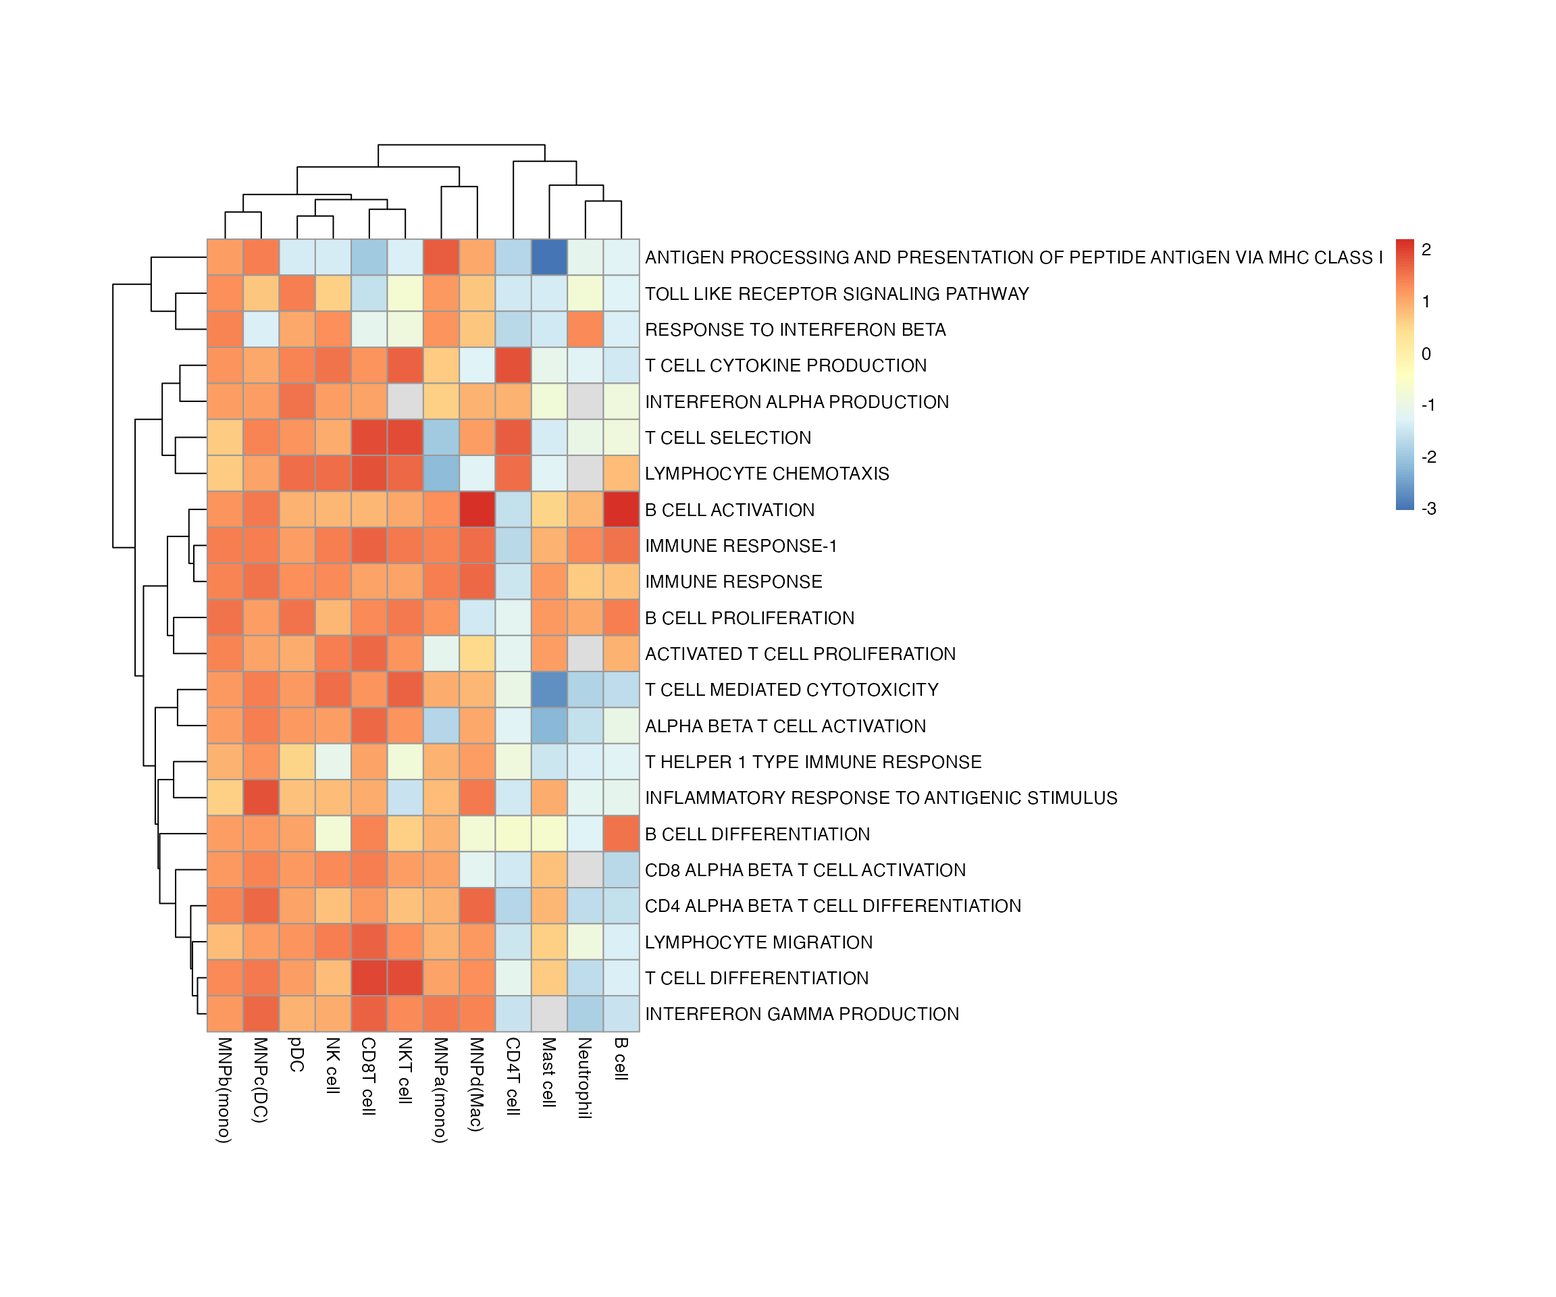
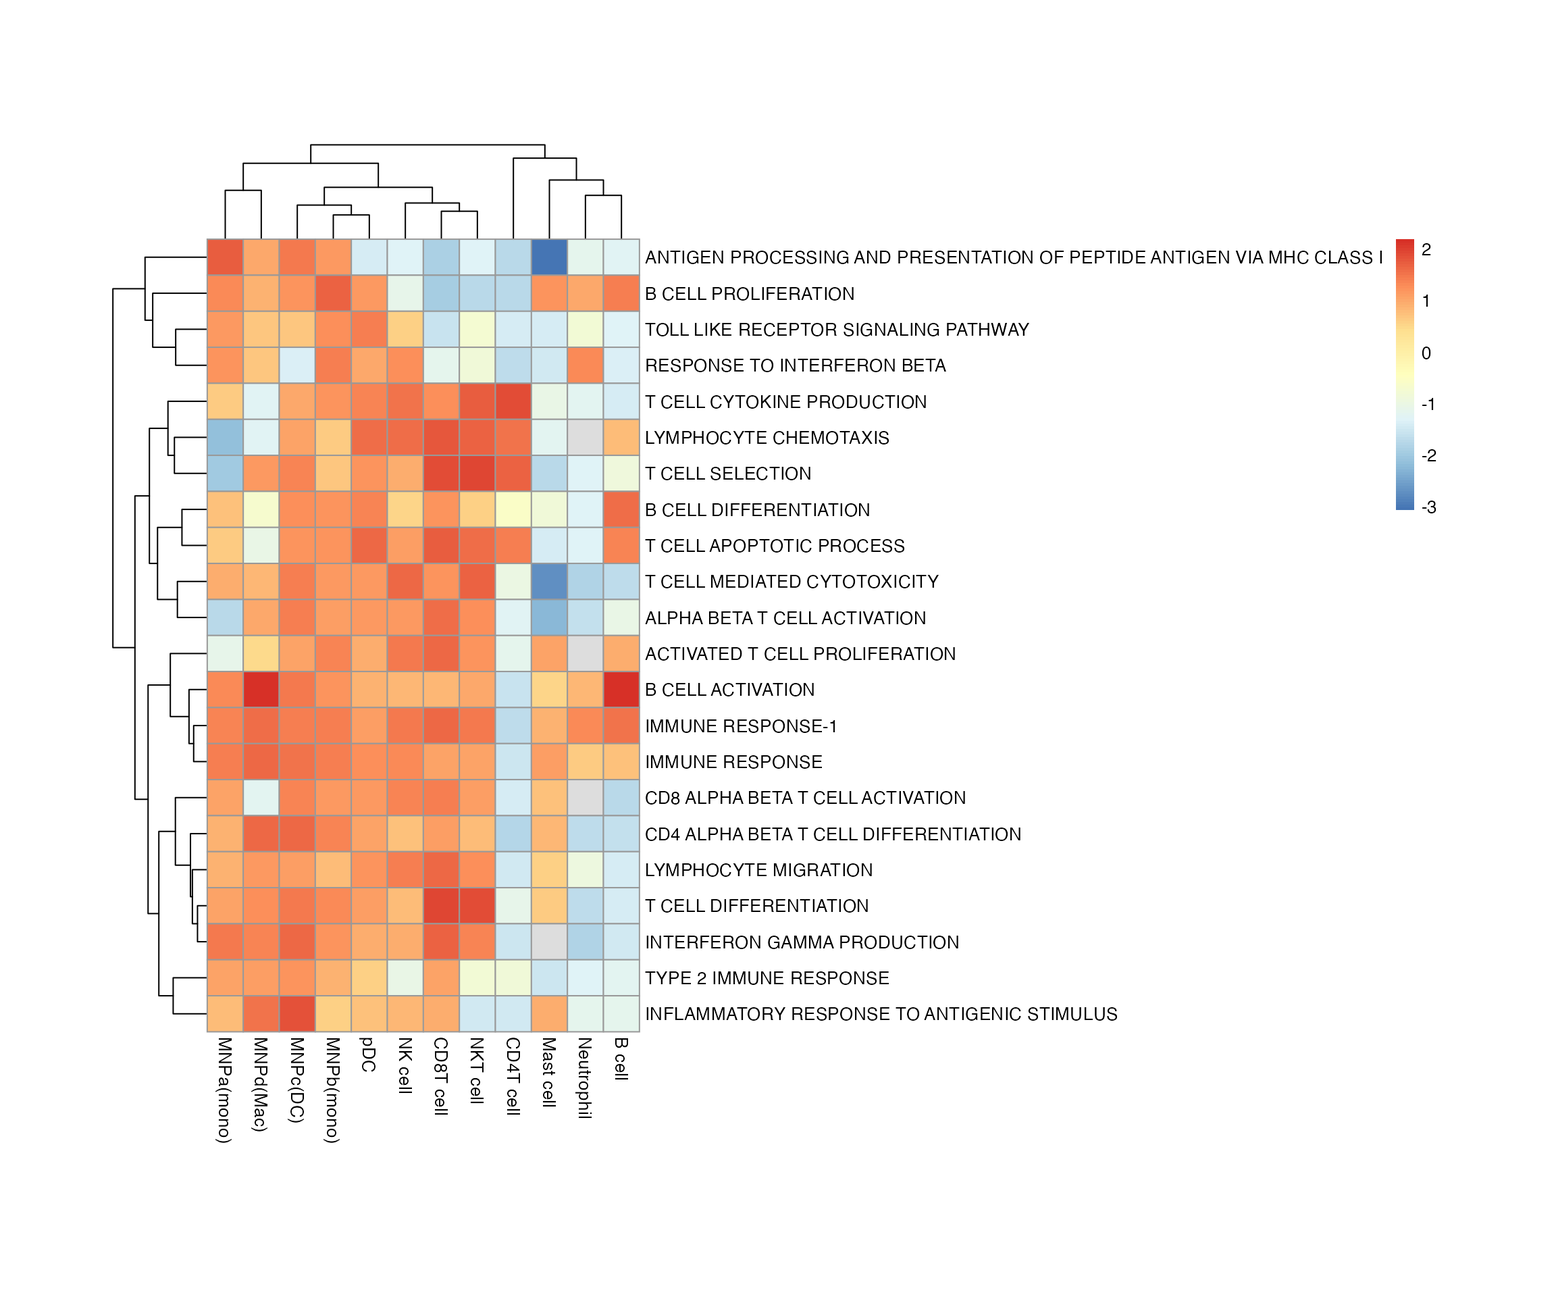
Built site for bowerbird: 0.0.2@e102f7c

diff --git a/articles/bowerbird_vignette.html b/articles/bowerbird_vignette.html
@@ -153,7 +153,7 @@
 <span class="co"># manualy read in to do some fine adjustments/filtering</span>
 <span class="va">geneset</span> <span class="op">&lt;-</span> <span class="fu"><a href="../reference/read_geneset.html">read_geneset</a></span><span class="op">(</span><span class="va">file</span><span class="op">)</span> <span class="co"># reads in gene file manually</span>
 <span class="co"># do a bit of manual filtering</span>
-<span class="va">geneset</span> <span class="op">&lt;-</span> <span class="va">geneset</span><span class="op">[</span><span class="fu"><a href="https://rdrr.io/r/base/grep.html">grep</a></span><span class="op">(</span><span class="st">'_B_CELL|_T_CELL|NATURAL_KILLER|ANTIBODY|ANTIGEN|LYMPHOCYTE|IMMUNE|INTERFERON|TOLL|INNATE|ADAPTIVE'</span>, <span class="fu"><a href="https://rdrr.io/r/base/names.html">names</a></span><span class="op">(</span><span class="va">geneset</span><span class="op">)</span><span class="op">)</span><span class="op">]</span>
+<span class="va">geneset</span> <span class="op">&lt;-</span> <span class="va">geneset</span><span class="op">[</span><span class="fu"><a href="https://rdrr.io/r/base/grep.html">grep</a></span><span class="op">(</span><span class="st">'_B_CELL|_T_CELL|NATURAL_KILLER|ANTIBODY|ANTIGEN|LYMPHOCYTE|IMMUNE|INTERFERON|TOLL|INNATE_IMM|ADAPTIVE_IMM'</span>, <span class="fu"><a href="https://rdrr.io/r/base/names.html">names</a></span><span class="op">(</span><span class="va">geneset</span><span class="op">)</span><span class="op">)</span><span class="op">]</span>
 
 <span class="va">bwr</span> <span class="op">&lt;-</span> <span class="fu"><a href="../reference/bower.html">bower</a></span><span class="op">(</span><span class="va">geneset</span><span class="op">)</span>
 <span class="va">bwr</span> <span class="op">&lt;-</span> <span class="fu"><a href="../reference/snn_graph.html">snn_graph</a></span><span class="op">(</span><span class="va">bwr</span><span class="op">)</span>
@@ -163,7 +163,7 @@
 <div class="sourceCode" id="cb7"><pre class="downlit sourceCode r">
 <code class="sourceCode R"><span class="kw"><a href="https://rdrr.io/r/base/library.html">library</a></span><span class="op">(</span><span class="va"><a href="https://igordot.github.io/msigdbr/">msigdbr</a></span><span class="op">)</span>
 <span class="va">GO</span> <span class="op">&lt;-</span> <span class="fu"><a href="https://rdrr.io/r/base/data.frame.html">data.frame</a></span><span class="op">(</span><span class="fu">msigdbr</span><span class="fu">::</span><span class="fu"><a href="https://igordot.github.io/msigdbr/reference/msigdbr.html">msigdbr</a></span><span class="op">(</span>category <span class="op">=</span> <span class="st">"C5"</span>, subcategory <span class="op">=</span> <span class="st">"GO:BP"</span><span class="op">)</span><span class="op">)</span>
-<span class="va">genesets</span> <span class="op">&lt;-</span> <span class="va">GO</span><span class="op">[</span><span class="fu"><a href="https://rdrr.io/r/base/grep.html">grep</a></span><span class="op">(</span><span class="st">'_B_CELL|_T_CELL|NATURAL_KILLER|ANTIBODY|ANTIGEN|LYMPHOCYTE|IMMUNE|INTERFERON|TOLL|INNATE|ADAPTIVE'</span>, <span class="va">GO</span><span class="op">$</span><span class="va">gs_name</span><span class="op">)</span>, <span class="op">]</span>
+<span class="va">genesets</span> <span class="op">&lt;-</span> <span class="va">GO</span><span class="op">[</span><span class="fu"><a href="https://rdrr.io/r/base/grep.html">grep</a></span><span class="op">(</span><span class="st">'_B_CELL|_T_CELL|NATURAL_KILLER|ANTIBODY|ANTIGEN|LYMPHOCYTE|IMMUNE|INTERFERON|TOLL|INNATE_IMM|ADAPTIVE_IMM'</span>, <span class="va">GO</span><span class="op">$</span><span class="va">gs_name</span><span class="op">)</span>, <span class="op">]</span>
 
 <span class="co"># convert to list</span>
 <span class="va">gs_list</span> <span class="op">&lt;-</span> <span class="fu"><a href="https://rdrr.io/r/base/lapply.html">lapply</a></span><span class="op">(</span><span class="fu"><a href="https://rdrr.io/r/base/unique.html">unique</a></span><span class="op">(</span><span class="va">genesets</span><span class="op">$</span><span class="va">gs_name</span><span class="op">)</span>, <span class="kw">function</span><span class="op">(</span><span class="va">x</span><span class="op">)</span> <span class="va">genesets</span><span class="op">[</span><span class="va">genesets</span><span class="op">$</span><span class="va">gs_name</span> <span class="op">%in%</span> <span class="va">x</span>, <span class="st">"gene_symbol"</span><span class="op">]</span><span class="op">)</span>
@@ -177,12 +177,12 @@
 <div class="sourceCode" id="cb8"><pre class="downlit sourceCode r">
 <code class="sourceCode R"><span class="va">bwr</span>
 <span class="co">#&gt; BOWER class</span>
-<span class="co">#&gt; number of genesets:  255 </span>
+<span class="co">#&gt; number of genesets:  254 </span>
 <span class="co">#&gt; genesets kNN Graph: </span>
-<span class="co">#&gt; IGRAPH e4ee978 UNW- 255 802 -- </span>
+<span class="co">#&gt; IGRAPH b01184d UNW- 254 799 -- </span>
 <span class="co">#&gt; + attr: name (v/c), cluster (v/n), geneset_size (v/n), terms (v/c),</span>
 <span class="co">#&gt; | labels (v/c), weight (e/n)</span>
-<span class="co">#&gt; + edges from e4ee978 (vertex names):</span>
+<span class="co">#&gt; + edges from b01184d (vertex names):</span>
 <span class="co">#&gt; [1] GOBP_ACTIVATED_T_CELL_PROLIFERATION--GOBP_CD8_POSITIVE_ALPHA_BETA_T_CELL_DIFFERENTIATION          </span>
 <span class="co">#&gt; [2] GOBP_ACTIVATED_T_CELL_PROLIFERATION--GOBP_NEGATIVE_REGULATION_OF_ACTIVATED_T_CELL_PROLIFERATION   </span>
 <span class="co">#&gt; [3] GOBP_ACTIVATED_T_CELL_PROLIFERATION--GOBP_NEGATIVE_REGULATION_OF_LYMPHOCYTE_DIFFERENTIATION       </span>
@@ -196,24 +196,24 @@
 <span class="co">#&gt;   CD4 ALPHA BETA T CELL DIFFERENTIATION : ANXA1 ATP7A BATF BCL3 BCL6 CBFB ...</span>
 <span class="co">#&gt;   IMMUNE RESPONSE : CLNK HLA-E HLA-F IFNA2 IFNB1 IL18 ...</span>
 <span class="co">#&gt;   T CELL MEDIATED CYTOTOXICITY : HLA-A HLA-B HLA-C HLA-E HLA-F HLA-G ...</span>
+<span class="co">#&gt;   TYPE 2 IMMUNE RESPONSE : CAMP DEFA1 DEFA1B DEFA3 DEFA4 DEFA5 ...</span>
 <span class="co">#&gt;   CD8 ALPHA BETA T CELL ACTIVATION : HLA-E GATA3 ADCYAP1 BTK C3 CCR7 ...</span>
-<span class="co">#&gt;   B CELL PROLIFERATION : ADA BAX BCL6 BLK BTK CD74 ...</span>
 <span class="co">#&gt;   T CELL DIFFERENTIATION : FCGR2B FGL2 HLA-DOA LILRB2 THBS1 BMP4 ...</span>
 <span class="co">#&gt;   INTERFERON GAMMA PRODUCTION : ABCB9 ACE ACTR10 ACTR1A ACTR1B AP1B1 ...</span>
 <span class="co">#&gt;   TOLL LIKE RECEPTOR SIGNALING PATHWAY : CACTIN PTPRS TICAM1 TLR3 TLR4 TLR9 ...</span>
-<span class="co">#&gt;   T HELPER 1 TYPE IMMUNE RESPONSE : BCL6 FOXP3 IL2 IL4 TBX21 TNFSF4 ...</span>
 <span class="co">#&gt;   T CELL CYTOKINE PRODUCTION : KLRC1 LILRB1 NOD2 PTPRC EGR3 LEF1 ...</span>
-<span class="co">#&gt;   INTERFERON ALPHA PRODUCTION : IL18 IL18R1 IL4 TLR4 SYK IL4R ...</span>
+<span class="co">#&gt;   B CELL DIFFERENTIATION : IL10 TLR9 SYK ADA BCL3 C17orf99 ...</span>
 <span class="co">#&gt;   RESPONSE TO INTERFERON BETA : ADA SOS1 SOS2 IRF1 TLR3 IRGM ...</span>
-<span class="co">#&gt;   ACTIVATED T CELL PROLIFERATION : LILRB4 CD24 CD274 FYN HHLA2 ICOSLG ...</span>
-<span class="co">#&gt;   T CELL SELECTION : TOX BCL2 BATF CTSL FOXP3 IL12B ...</span>
-<span class="co">#&gt;   LYMPHOCYTE CHEMOTAXIS : CCL2 CCL3 CCL4 CCL5 CCL7 CXCL14 ...</span>
+<span class="co">#&gt;   B CELL PROLIFERATION : ADA BAX BCL6 BLK BTK CD74 ...</span>
 <span class="co">#&gt;   B CELL ACTIVATION : ADA ADAM17 BATF BCL3 BCL6 BTK ...</span>
+<span class="co">#&gt;   ACTIVATED T CELL PROLIFERATION : LILRB4 CD24 CD274 FYN HHLA2 ICOSLG ...</span>
+<span class="co">#&gt;   LYMPHOCYTE CHEMOTAXIS : CCL2 CCL3 CCL4 CCL5 CCL7 CXCL14 ...</span>
+<span class="co">#&gt;   T CELL SELECTION : TOX BCL2 BATF CTSL FOXP3 IL12B ...</span>
 <span class="co">#&gt;   INFLAMMATORY RESPONSE TO ANTIGENIC STIMULUS : BTK C3 CD28 HLA-E LTA NOD2 ...</span>
 <span class="co">#&gt;   ALPHA BETA T CELL ACTIVATION : AGER ANXA1 ARG2 ATP7A BATF BCL3 ...</span>
+<span class="co">#&gt;   T CELL APOPTOTIC PROCESS : ADA AKT1 BAK1 BAX BCL10 BCL2L11 ...</span>
 <span class="co">#&gt;   ANTIGEN PROCESSING AND PRESENTATION OF PEPTIDE ANTIGEN VIA MHC CLASS I : ABCB9 AZGP1 B2M ERAP1 ERAP2 HFE ...</span>
-<span class="co">#&gt;   LYMPHOCYTE MIGRATION : ADAM10 ADAM17 ADAM8 AIF1 APP CCL20 ...</span>
-<span class="co">#&gt;   B CELL DIFFERENTIATION : ADA BCL3 C17orf99 CD19 CDH17 CMTM7 ...</span></code></pre></div>
+<span class="co">#&gt;   LYMPHOCYTE MIGRATION : ADAM10 ADAM17 ADAM8 AIF1 APP CCL20 ...</span></code></pre></div>
 <p>We can visualise it with a simple plot</p>
 <div class="sourceCode" id="cb9"><pre class="downlit sourceCode r">
 <code class="sourceCode R"><span class="fu"><a href="../reference/plot_graph.html">plot_graph</a></span><span class="op">(</span><span class="va">bwr</span>, colorby <span class="op">=</span> <span class="st">'cluster'</span>, node.size <span class="op">=</span> <span class="st">'geneset_size'</span><span class="op">)</span></code></pre></div>

diff --git a/index.html b/index.html
@@ -136,7 +136,7 @@
 <span class="co"># manualy read in to do some fine adjustments/filtering</span>
 <span class="va">geneset</span> <span class="op">&lt;-</span> <span class="fu"><a href="reference/read_geneset.html">read_geneset</a></span><span class="op">(</span><span class="va">file</span><span class="op">)</span> <span class="co"># reads in gene file manually</span>
 <span class="co"># do a bit of manual filtering</span>
-<span class="va">geneset</span> <span class="op">&lt;-</span> <span class="va">geneset</span><span class="op">[</span><span class="fu"><a href="https://rdrr.io/r/base/grep.html">grep</a></span><span class="op">(</span><span class="st">'B_CELL|T_CELL|NATURAL_KILLER|ANTIBODY|ANTIGEN|LYMPHOCYTE|IMMUNE|INTERFERON|TOLL|INNATE|ADAPTIVE'</span>, <span class="fu"><a href="https://rdrr.io/r/base/names.html">names</a></span><span class="op">(</span><span class="va">geneset</span><span class="op">)</span><span class="op">)</span><span class="op">]</span>
+<span class="va">geneset</span> <span class="op">&lt;-</span> <span class="va">geneset</span><span class="op">[</span><span class="fu"><a href="https://rdrr.io/r/base/grep.html">grep</a></span><span class="op">(</span><span class="st">'B_CELL|T_CELL|NATURAL_KILLER|ANTIBODY|ANTIGEN|LYMPHOCYTE|IMMUNE|INTERFERON|TOLL|INNATE_IMM|ADAPTIVE_IMM'</span>, <span class="fu"><a href="https://rdrr.io/r/base/names.html">names</a></span><span class="op">(</span><span class="va">geneset</span><span class="op">)</span><span class="op">)</span><span class="op">]</span>
 
 <span class="va">bwr</span> <span class="op">&lt;-</span> <span class="fu"><a href="reference/bower.html">bower</a></span><span class="op">(</span><span class="va">geneset</span><span class="op">)</span>
 <span class="va">bwr</span> <span class="op">&lt;-</span> <span class="fu"><a href="reference/snn_graph.html">snn_graph</a></span><span class="op">(</span><span class="va">bwr</span><span class="op">)</span>
@@ -147,8 +147,7 @@
 <code class="sourceCode R"><span class="kw"><a href="https://rdrr.io/r/base/library.html">library</a></span><span class="op">(</span><span class="va">bowerbird</span><span class="op">)</span>
 <span class="kw"><a href="https://rdrr.io/r/base/library.html">library</a></span><span class="op">(</span><span class="va"><a href="https://igordot.github.io/msigdbr/">msigdbr</a></span><span class="op">)</span>
 <span class="va">GO</span> <span class="op">&lt;-</span> <span class="fu"><a href="https://rdrr.io/r/base/data.frame.html">data.frame</a></span><span class="op">(</span><span class="fu">msigdbr</span><span class="fu">::</span><span class="fu"><a href="https://igordot.github.io/msigdbr/reference/msigdbr.html">msigdbr</a></span><span class="op">(</span>category <span class="op">=</span> <span class="st">"C5"</span>, subcategory <span class="op">=</span> <span class="st">"GO:BP"</span><span class="op">)</span><span class="op">)</span>
-<span class="va">genesets</span> <span class="op">&lt;-</span> <span class="va">GO</span><span class="op">[</span><span class="fu"><a href="https://rdrr.io/r/base/grep.html">grep</a></span><span class="op">(</span><span class="st">'_B_CELL|_T_CELL|NATURAL_KILLER|ANTIBODY|ANTIGEN|LYMPHOCYTE|IMMUNE|INTERFERON|TOLL|INNATE|ADAPTIVE'</span>, <span class="va">GO</span><span class="op">$</span><span class="va">gs_name</span><span class="op">)</span>, <span class="op">]</span>
-<span class="va">genesets</span> <span class="op">&lt;-</span> <span class="va">genesets</span><span class="op">[</span><span class="op">!</span><span class="fu"><a href="https://rdrr.io/r/base/grep.html">grepl</a></span><span class="op">(</span><span class="st">'TROPHOBLAST_CELL|FAT_CELL|ENT_CELL'</span>, <span class="va">genesets</span><span class="op">$</span><span class="va">gs_name</span><span class="op">)</span>, <span class="op">]</span>
+<span class="va">genesets</span> <span class="op">&lt;-</span> <span class="va">GO</span><span class="op">[</span><span class="fu"><a href="https://rdrr.io/r/base/grep.html">grep</a></span><span class="op">(</span><span class="st">'_B_CELL|_T_CELL|NATURAL_KILLER|ANTIBODY|ANTIGEN|LYMPHOCYTE|IMMUNE|INTERFERON|TOLL|INNATE_IMM|ADAPTIVE_IMM'</span>, <span class="va">GO</span><span class="op">$</span><span class="va">gs_name</span><span class="op">)</span>, <span class="op">]</span>
 
 <span class="co"># convert to list</span>
 <span class="va">gs_list</span> <span class="op">&lt;-</span> <span class="fu"><a href="https://rdrr.io/r/base/lapply.html">lapply</a></span><span class="op">(</span><span class="fu"><a href="https://rdrr.io/r/base/unique.html">unique</a></span><span class="op">(</span><span class="va">genesets</span><span class="op">$</span><span class="va">gs_name</span><span class="op">)</span>, <span class="kw">function</span><span class="op">(</span><span class="va">x</span><span class="op">)</span> <span class="va">genesets</span><span class="op">[</span><span class="va">genesets</span><span class="op">$</span><span class="va">gs_name</span> <span class="op">%in%</span> <span class="va">x</span>, <span class="st">"gene_symbol"</span><span class="op">]</span><span class="op">)</span>

diff --git a/reference/extract_core.html b/reference/extract_core.html
@@ -154,10 +154,10 @@
 </div><div class='output co'>#&gt; BOWER class
 #&gt; number of genesets:  50 
 #&gt; genesets kNN Graph: 
-#&gt; IGRAPH f5badf5 UNW- 50 124 -- 
+#&gt; IGRAPH 5a2bac9 UNW- 50 124 -- 
 #&gt; + attr: name (v/c), cluster (v/n), geneset_size (v/n), terms (v/c),
 #&gt; | labels (v/c), weight (e/n)
-#&gt; + edges from f5badf5 (vertex names):
+#&gt; + edges from 5a2bac9 (vertex names):
 #&gt; [1] HALLMARK_TNFA_SIGNALING_VIA_NFKB--HALLMARK_HYPOXIA                
 #&gt; [2] HALLMARK_TNFA_SIGNALING_VIA_NFKB--HALLMARK_TGF_BETA_SIGNALING     
 #&gt; [3] HALLMARK_TNFA_SIGNALING_VIA_NFKB--HALLMARK_IL6_JAK_STAT3_SIGNALING
@@ -165,18 +165,19 @@
 #&gt; [5] HALLMARK_TNFA_SIGNALING_VIA_NFKB--HALLMARK_MYOGENESIS             
 #&gt; [6] HALLMARK_TNFA_SIGNALING_VIA_NFKB--HALLMARK_COMPLEMENT             
 #&gt; + ... omitted several edges
-#&gt; number of geneset clusters:  9 
+#&gt; number of geneset clusters:  10 
 #&gt; Core genes:
 #&gt; 	First six genes shown
 #&gt; 	 XENOBIOTIC METABOLISM : LIFR DNAJB9 CD36 ACOX1 IDH1 ECH1 ...
-#&gt; 	 E2F TARGETS : SAC3D1 KIF11 KIF23 RACGAP1 NUMA1 KIF2C ...
 #&gt; 	 ESTROGEN RESPONSE EARLY : JAG1 CTNNB1 GNAI1 FDFT1 DHCR7 FASN ...
-#&gt; 	 APOPTOSIS : SPTAN1 CDKN1A GSN GPX3 CLU GADD45B ...
-#&gt; 	 INTERFERON GAMMA RESPONSE : IL4R IRF9 CSF1 CXCL10 STAT2 IRF1 ...
+#&gt; 	 E2F TARGETS : SAC3D1 KIF11 KIF23 RACGAP1 NUMA1 KIF2C ...
+#&gt; 	 APOPTOSIS : ATF3 IER3 BIRC3 JUN EGR3 IL1B ...
 #&gt; 	 HEDGEHOG SIGNALING : VEGFA VLDLR MYH9 ERO1A DDIT4 STC2 ...
+#&gt; 	 INTERFERON ALPHA RESPONSE : MX1 ISG15 IFIT3 IFI44 IFI35 IRF7 ...
 #&gt; 	 APICAL JUNCTION : EGFR ADAM10 CLTC AP2M1 ARF1 MAPK1 ...
-#&gt; 	 TGF BETA SIGNALING : JUNB PPP1R15A SERPINE1 ID2 IFNGR2 PMEPA1 ...
-#&gt; 	 COMPLEMENT : SERPINE1 MMP14 TIMP1 CD59 PLAUR FN1 ...</div></pre>
+#&gt; 	 TGF BETA SIGNALING : TGFB1 PMEPA1 SERPINE1 ID2 THBS1 PPP1R15A ...
+#&gt; 	 IL6 JAK STAT3 SIGNALING : IL4R IFNGR1 IL1R2 IL3RA TNFRSF1B CSF1 ...
+#&gt; 	 UV RESPONSE DN COAGULATION : SERPINE1 FYN F3 ITGB3 </div></pre>
   </div>
   <div class="col-md-3 hidden-xs hidden-sm" id="pkgdown-sidebar">
     <nav id="toc" data-toggle="toc" class="sticky-top">

diff --git a/reference/enrich_genesets.html b/reference/enrich_genesets.html
@@ -273,10 +273,10 @@
 </div><div class='output co'>#&gt; BOWER class
 #&gt; number of genesets:  50 
 #&gt; genesets kNN Graph: 
-#&gt; IGRAPH 017a735 UNW- 50 124 -- 
+#&gt; IGRAPH 87e776e UNW- 50 124 -- 
 #&gt; + attr: name (v/c), cluster (v/n), geneset_size (v/n), terms (v/c),
 #&gt; | labels (v/c), weight (e/n)
-#&gt; + edges from 017a735 (vertex names):
+#&gt; + edges from 87e776e (vertex names):
 #&gt; [1] HALLMARK_TNFA_SIGNALING_VIA_NFKB--HALLMARK_HYPOXIA                
 #&gt; [2] HALLMARK_TNFA_SIGNALING_VIA_NFKB--HALLMARK_TGF_BETA_SIGNALING     
 #&gt; [3] HALLMARK_TNFA_SIGNALING_VIA_NFKB--HALLMARK_IL6_JAK_STAT3_SIGNALING
@@ -284,19 +284,18 @@
 #&gt; [5] HALLMARK_TNFA_SIGNALING_VIA_NFKB--HALLMARK_MYOGENESIS             
 #&gt; [6] HALLMARK_TNFA_SIGNALING_VIA_NFKB--HALLMARK_COMPLEMENT             
 #&gt; + ... omitted several edges
-#&gt; number of geneset clusters:  10 
+#&gt; number of geneset clusters:  9 
 #&gt; Core genes:
 #&gt; 	First six genes shown
 #&gt; 	 XENOBIOTIC METABOLISM : LIFR DNAJB9 CD36 ACOX1 IDH1 ECH1 ...
 #&gt; 	 E2F TARGETS : SAC3D1 KIF11 KIF23 RACGAP1 NUMA1 KIF2C ...
 #&gt; 	 ESTROGEN RESPONSE EARLY : JAG1 CTNNB1 GNAI1 FDFT1 DHCR7 FASN ...
+#&gt; 	 APOPTOSIS : ATF3 IER3 BIRC3 JUN EGR3 IL1B ...
+#&gt; 	 INTERFERON ALPHA RESPONSE : MX1 ISG15 IFIT3 IFI44 IFI35 IRF7 ...
 #&gt; 	 HEDGEHOG SIGNALING : VEGFA VLDLR MYH9 ERO1A DDIT4 STC2 ...
-#&gt; 	 INTERFERON GAMMA RESPONSE : IL4R IRF9 CSF1 CXCL10 STAT2 IRF1 ...
 #&gt; 	 APICAL JUNCTION : EGFR ADAM10 CLTC AP2M1 ARF1 MAPK1 ...
-#&gt; 	 TGF BETA SIGNALING : JUNB PPP1R15A SERPINE1 ID2 IFNGR2 PMEPA1 ...
-#&gt; 	 APOPTOSIS : SPTAN1 CDKN1A GSN GPX3 CLU GADD45B ...
-#&gt; 	 P53 PATHWAY : BTG2 TAP1 CDKN2B ATF3 BTG1 RRAD ...
-#&gt; 	 COMPLEMENT : C2 C1S CFB C1R SERPINE1 MMP14 ...</div></pre>
+#&gt; 	 TGF BETA SIGNALING : TGFB1 PMEPA1 SERPINE1 ID2 THBS1 PPP1R15A ...
+#&gt; 	 IL6 JAK STAT3 SIGNALING : IL4R IFNGR1 IL1R2 IL3RA TNFRSF1B CSF1 ...</div></pre>
   </div>
   <div class="col-md-3 hidden-xs hidden-sm" id="pkgdown-sidebar">
     <nav id="toc" data-toggle="toc" class="sticky-top">

diff --git a/reference/summarize_clusters.html b/reference/summarize_clusters.html
@@ -196,10 +196,10 @@
 </div><div class='output co'>#&gt; BOWER class
 #&gt; number of genesets:  50 
 #&gt; genesets kNN Graph: 
-#&gt; IGRAPH 0542ca2 UNW- 50 124 -- 
+#&gt; IGRAPH d501819 UNW- 50 124 -- 
 #&gt; + attr: name (v/c), cluster (v/n), geneset_size (v/n), terms (v/c),
 #&gt; | labels (v/c), weight (e/n)
-#&gt; + edges from 0542ca2 (vertex names):
+#&gt; + edges from d501819 (vertex names):
 #&gt; [1] HALLMARK_TNFA_SIGNALING_VIA_NFKB--HALLMARK_HYPOXIA                
 #&gt; [2] HALLMARK_TNFA_SIGNALING_VIA_NFKB--HALLMARK_TGF_BETA_SIGNALING     
 #&gt; [3] HALLMARK_TNFA_SIGNALING_VIA_NFKB--HALLMARK_IL6_JAK_STAT3_SIGNALING
@@ -211,15 +211,15 @@
 #&gt; Core genes:
 #&gt; 	First six genes shown
 #&gt; 	 XENOBIOTIC METABOLISM : LIFR DNAJB9 CD36 ACOX1 IDH1 ECH1 ...
-#&gt; 	 E2F TARGETS : SAC3D1 KIF11 KIF23 RACGAP1 NUMA1 KIF2C ...
 #&gt; 	 ESTROGEN RESPONSE EARLY : JAG1 CTNNB1 GNAI1 FDFT1 DHCR7 FASN ...
+#&gt; 	 E2F TARGETS : SAC3D1 KIF11 KIF23 RACGAP1 NUMA1 KIF2C ...
+#&gt; 	 APOPTOSIS : ATF3 IER3 BIRC3 JUN EGR3 IL1B ...
+#&gt; 	 INTERFERON ALPHA RESPONSE : MX1 ISG15 IFIT3 IFI44 IFI35 IRF7 ...
 #&gt; 	 HEDGEHOG SIGNALING : VEGFA VLDLR MYH9 ERO1A DDIT4 STC2 ...
-#&gt; 	 APOPTOSIS : SPTAN1 CDKN1A GSN GPX3 CLU GADD45B ...
-#&gt; 	 INTERFERON GAMMA RESPONSE : IL4R IRF9 CSF1 CXCL10 STAT2 IRF1 ...
 #&gt; 	 APICAL JUNCTION : EGFR ADAM10 CLTC AP2M1 ARF1 MAPK1 ...
 #&gt; 	 TGF BETA SIGNALING : TGFB1 PMEPA1 SERPINE1 ID2 THBS1 PPP1R15A ...
-#&gt; 	 TNFA SIGNALING VIA NFKB : CD83 MAFF KLF6 TRAF1 MAP3K8 LIF ...
-#&gt; 	 COMPLEMENT : C2 C1S CFB C1R SERPINE1 MMP14 ...</div></pre>
+#&gt; 	 IL6 JAK STAT3 SIGNALING : IL4R IFNGR1 IL1R2 IL3RA TNFRSF1B CSF1 ...
+#&gt; 	 UV RESPONSE DN COAGULATION : SERPINE1 FYN F3 ITGB3 </div></pre>
   </div>
   <div class="col-md-3 hidden-xs hidden-sm" id="pkgdown-sidebar">
     <nav id="toc" data-toggle="toc" class="sticky-top">

diff --git a/reference/find_clusters.html b/reference/find_clusters.html
@@ -164,9 +164,9 @@
 </div><div class='output co'>#&gt; BOWER class
 #&gt; number of genesets:  50 
 #&gt; genesets kNN Graph: 
-#&gt; IGRAPH a868087 UNW- 50 124 -- 
+#&gt; IGRAPH d8b0794 UNW- 50 124 -- 
 #&gt; + attr: name (v/c), cluster (v/n), geneset_size (v/n), weight (e/n)
-#&gt; + edges from a868087 (vertex names):
+#&gt; + edges from d8b0794 (vertex names):
 #&gt; [1] HALLMARK_TNFA_SIGNALING_VIA_NFKB--HALLMARK_HYPOXIA                          
 #&gt; [2] HALLMARK_TNFA_SIGNALING_VIA_NFKB--HALLMARK_TGF_BETA_SIGNALING               
 #&gt; [3] HALLMARK_TNFA_SIGNALING_VIA_NFKB--HALLMARK_IL6_JAK_STAT3_SIGNALING          

diff --git a/reference/snn_graph.html b/reference/snn_graph.html
@@ -170,9 +170,9 @@
 </div><div class='output co'>#&gt; BOWER class
 #&gt; number of genesets:  50 
 #&gt; genesets kNN Graph: 
-#&gt; IGRAPH 2b1c315 UNW- 50 124 -- 
+#&gt; IGRAPH dbcbd8e UNW- 50 124 -- 
 #&gt; + attr: name (v/c), weight (e/n)
-#&gt; + edges from 2b1c315 (vertex names):
+#&gt; + edges from dbcbd8e (vertex names):
 #&gt; [1] HALLMARK_TNFA_SIGNALING_VIA_NFKB--HALLMARK_HYPOXIA                          
 #&gt; [2] HALLMARK_TNFA_SIGNALING_VIA_NFKB--HALLMARK_TGF_BETA_SIGNALING               
 #&gt; [3] HALLMARK_TNFA_SIGNALING_VIA_NFKB--HALLMARK_IL6_JAK_STAT3_SIGNALING          
